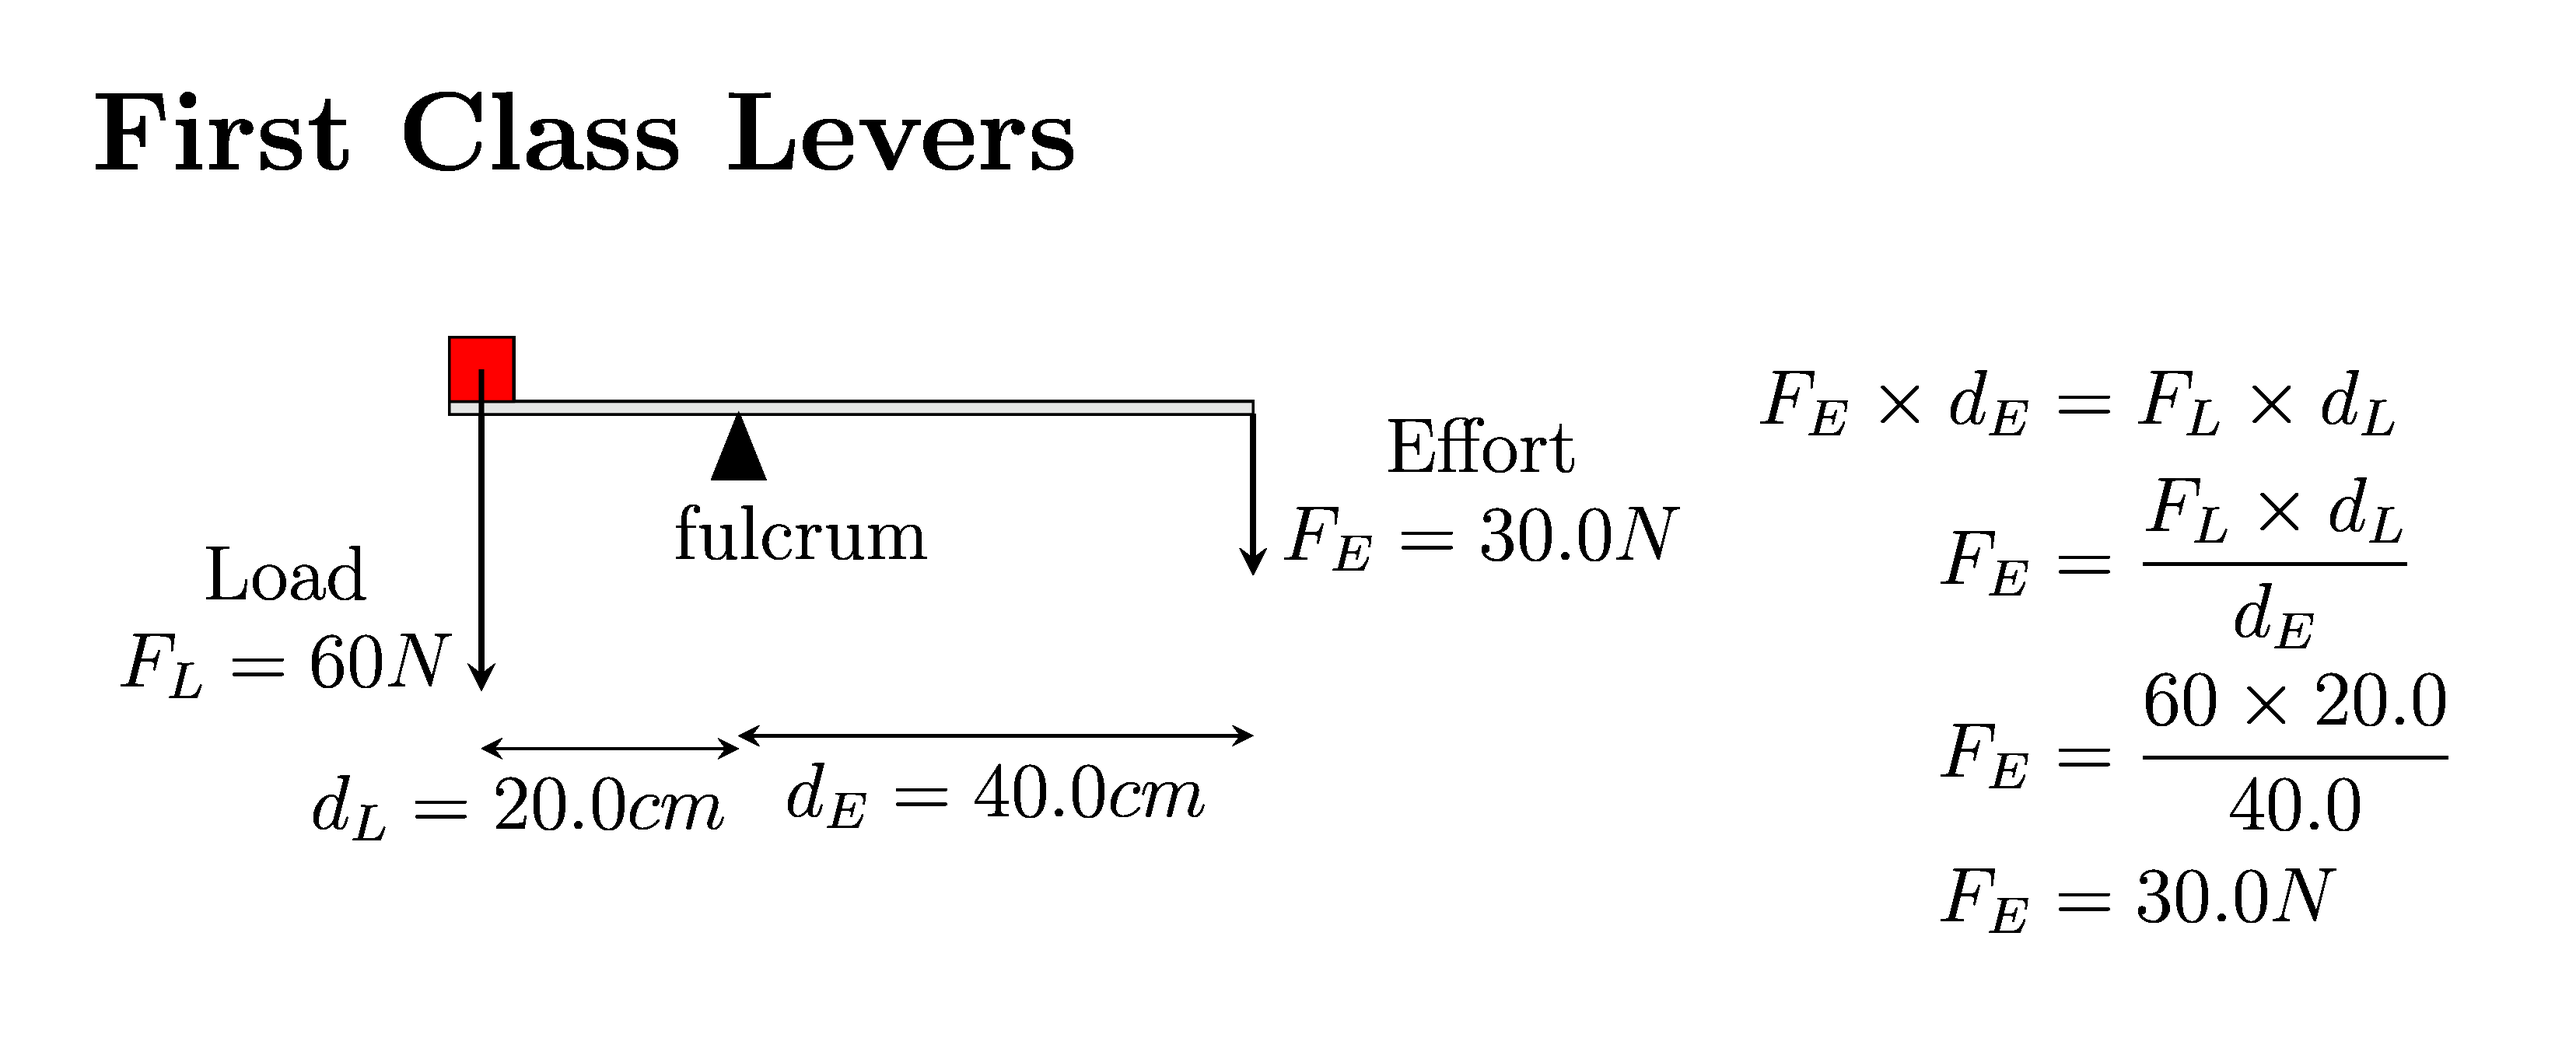
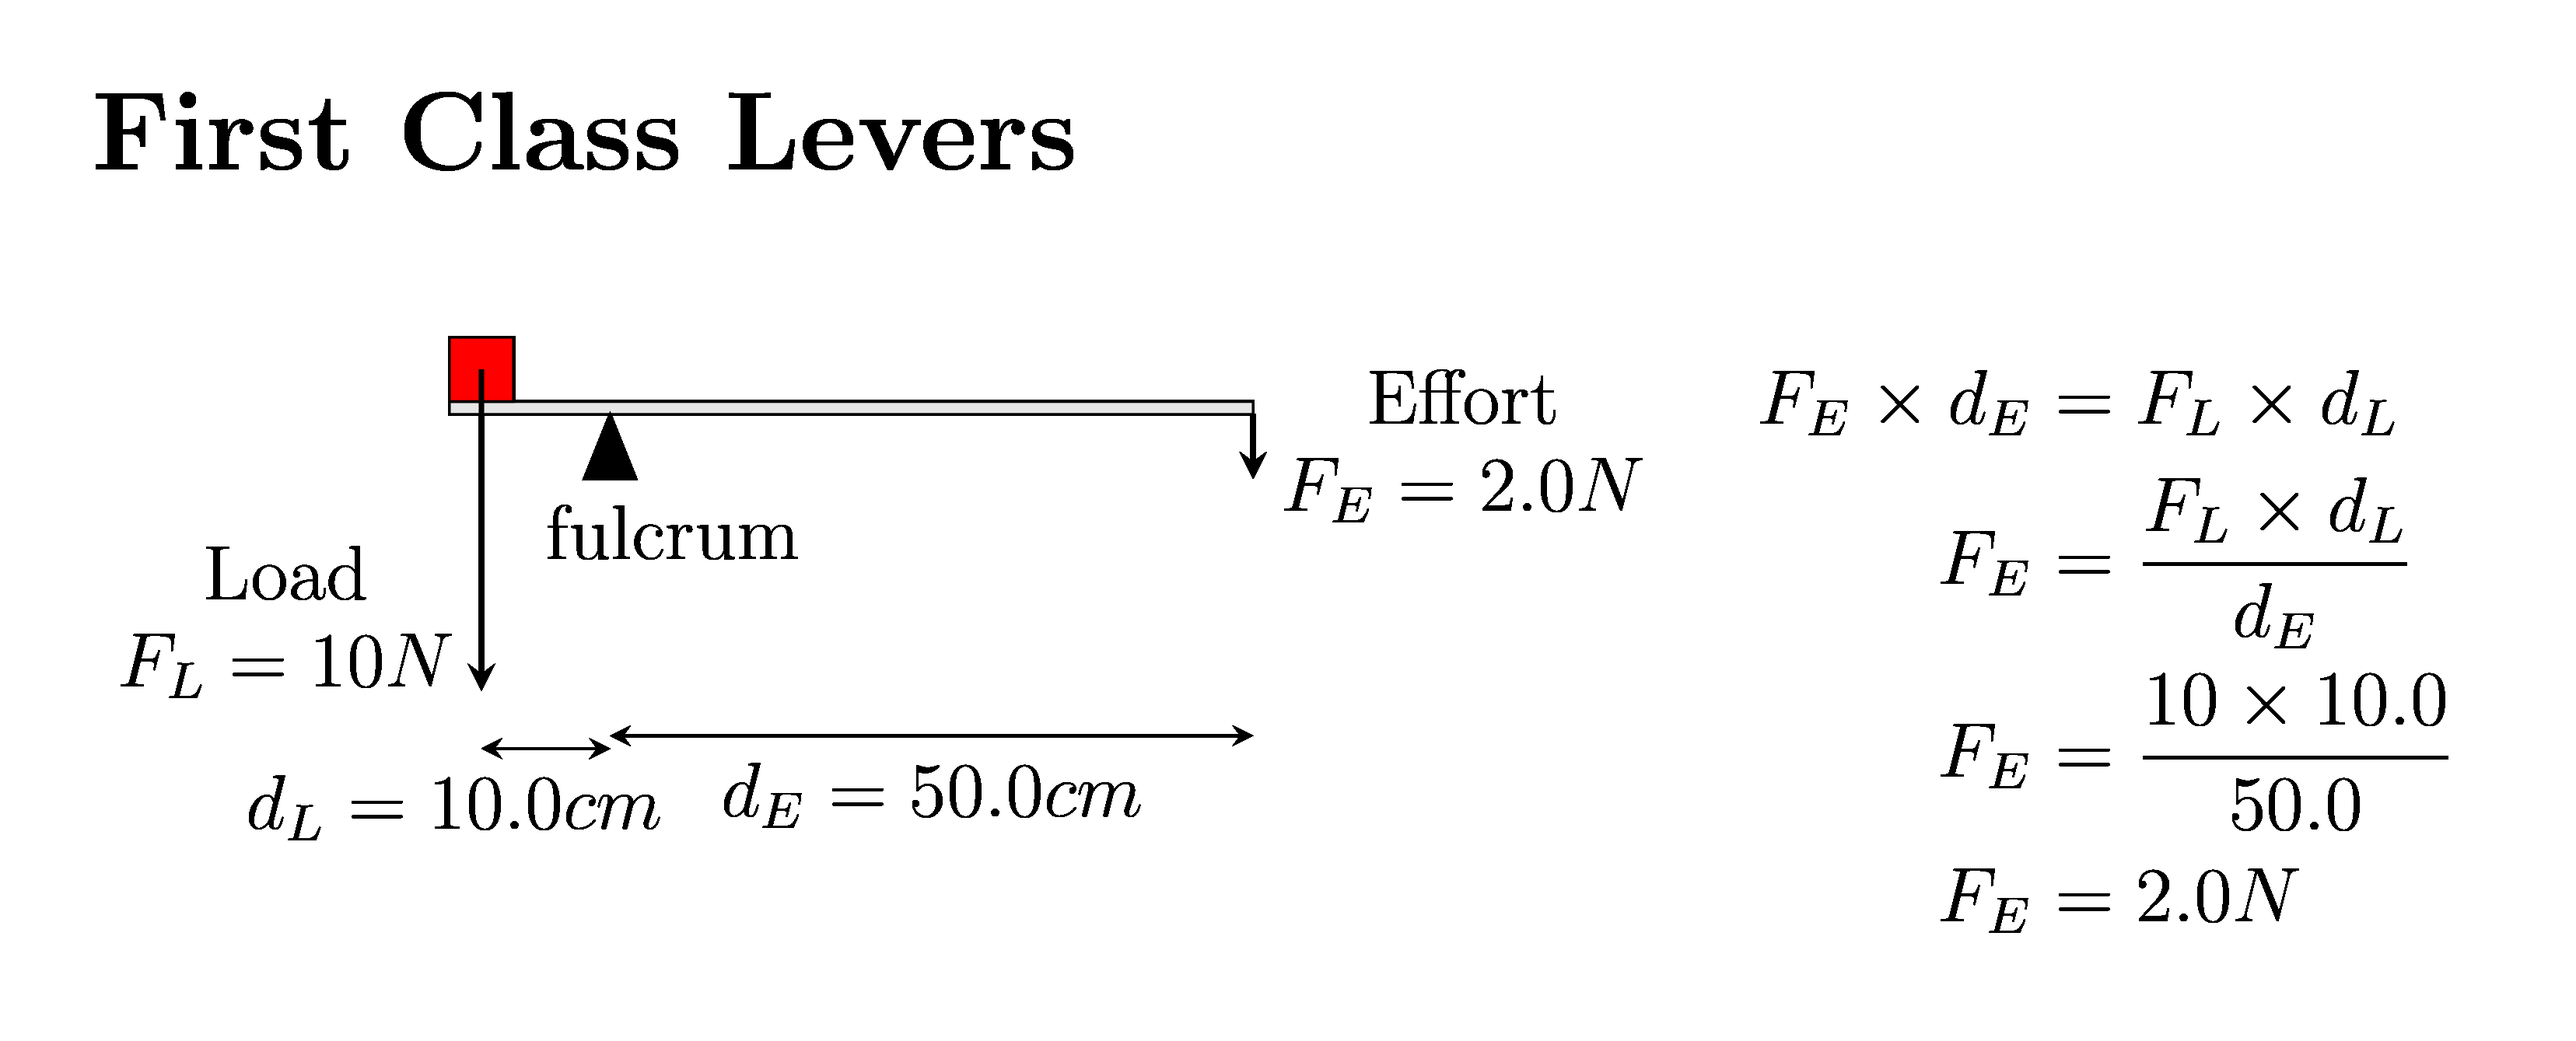
up

diff --git a/docs/latex_science/physics/levers_diagrams/lever_fcl1_ans.tex b/docs/latex_science/physics/levers_diagrams/lever_fcl1_ans.tex
@@ -10,25 +10,25 @@
         % rod
         \draw[fill=gray!20] (-0.25,0) rectangle (6,0.1);
         %fulcrum
-        \draw[fill=black] (1.8,-0.5) -- (2.2,-0.5) node[below,xshift=2mm] {fulcrum} -- (2.0,0) -- cycle;
+        \draw[fill=black] (0.8,-0.5) -- (1.2,-0.5) node[below,xshift=2mm] {fulcrum} -- (1.0,0) -- cycle;
         %load
         \draw[fill=red] (-0.25,0.1) rectangle (0.25,0.6);
-        \draw[->,thick] (0.0,0.35) -- (0.0,-2.15) node[midway,left,yshift=-0.5cm,align=center] {Load \\\\[-3ex] $F_L = 60N$};
+        \draw[->,thick] (0.0,0.35) -- (0.0,-2.15) node[midway,left,yshift=-0.5cm,align=center] {Load \\\\[-3ex] $F_L = 10N$};
         %effort
-        \draw[->,thick] (6,0.0) -- (6,-1.25) node[midway,right,align=center] {Effort \\\\[-3ex] $F_E = 30.0N$};
+        \draw[->,thick] (6,0.0) -- (6,-0.5) node[midway,right,align=center] {Effort \\\\[-3ex] $F_E = 2.0N$};
 
         % Distance markers
-        \draw[<->] (2.0,-2.5) -- (6,-2.5) node[midway,below,align=center] {$d_E = 40.0cm$};
-        \draw[<->] (0,-2.6) -- (2.0,-2.6) node[midway,below,xshift=-0.5cm,align=left] {$d_L = 20.0cm$};
+        \draw[<->] (1.0,-2.5) -- (6,-2.5) node[midway,below,align=center] {$d_E = 50.0cm$};
+        \draw[<->] (0,-2.6) -- (1.0,-2.6) node[midway,below,xshift=-0.5cm,align=left] {$d_L = 10.0cm$};
     \end{tikzpicture}
 \end{minipage}%
 \hfill
 \begin{minipage}{0.3\textwidth}
-    \begin{flalign*}
+    \begin{align*}
         F_E \times d_E &= F_L \times d_L \\
         F_E &= \frac{F_L \times d_L}{d_E} \\
-        F_E &= \frac{60 \times 20.0}{40.0} \\
-        F_E &= 30.0N
-    \end{flalign*}
+        F_E &= \frac{10 \times 10.0}{50.0} \\
+        F_E &= 2.0N
+    \end{align*}
 \end{minipage}
 \end{document}

diff --git a/docs/latex_science/physics/levers_diagrams/lever_fcl1_q.tex b/docs/latex_science/physics/levers_diagrams/lever_fcl1_q.tex
@@ -10,25 +10,25 @@
         % rod
         \draw[fill=gray!20] (-0.25,0) rectangle (6,0.1);
         %fulcrum
-        \draw[fill=black] (1.8,-0.5) -- (2.2,-0.5) node[below,xshift=2mm] {fulcrum} -- (2.0,0) -- cycle;
+        \draw[fill=black] (0.8,-0.5) -- (1.2,-0.5) node[below,xshift=2mm] {fulcrum} -- (1.0,0) -- cycle;
         %load
         \draw[fill=red] (-0.25,0.1) rectangle (0.25,0.6);
-        \draw[->,thick] (0.0,0.35) -- (0.0,-2.15) node[midway,left,yshift=-0.5cm,align=center] {Load \\\\[-3ex] $F_L = 60N$};
+        \draw[->,thick] (0.0,0.35) -- (0.0,-2.15) node[midway,left,yshift=-0.5cm,align=center] {Load \\\\[-3ex] $F_L = 10N$};
         %effort
-        \draw[->,thick] (6,0.0) -- (6,-1.25) node[midway,right,align=center] {Effort \\\\[-3ex] $F_E = ~~N$};
+        \draw[->,thick] (6,0.0) -- (6,-0.5) node[midway,right,align=center] {Effort \\\\[-3ex] $F_E = ~~N$};
 
         % Distance markers
-        \draw[<->] (2.0,-2.5) -- (6,-2.5) node[midway,below,align=center] {$d_E = 40.0cm$};
-        \draw[<->] (0,-2.6) -- (2.0,-2.6) node[midway,below,xshift=-0.5cm,align=left] {$d_L = 20.0cm$};
+        \draw[<->] (1.0,-2.5) -- (6,-2.5) node[midway,below,align=center] {$d_E = 50.0cm$};
+        \draw[<->] (0,-2.6) -- (1.0,-2.6) node[midway,below,xshift=-0.5cm,align=left] {$d_L = 10.0cm$};
     \end{tikzpicture}
 \end{minipage}%
 \hfill
 \begin{minipage}{0.3\textwidth}
-    \begin{flalign*}
+    \begin{align*}
         F_E \times d_E &= F_L \times d_L \\
         F_E &= \frac{F_L \times d_L}{d_E} \\
         F_E &= \frac{~~ \times ~~}{~~} \\
         F_E &= ~~N
-    \end{flalign*}
+    \end{align*}
 \end{minipage}
 \end{document}

diff --git a/docs/latex_science/physics/levers_makers/lever_diagram_template.tex b/docs/latex_science/physics/levers_makers/lever_diagram_template.tex
@@ -18,10 +18,10 @@
 \end{minipage}%
 \hfill
 \begin{minipage}{0.3\textwidth}
-    \begin{flalign*}
+    \begin{align*}
         F_E \times d_E &= F_L \times d_L \\
         F_E &= \frac{F_L \times d_L}{d_E} \\
         F_E &= \frac{<<ans_force_l>> \times <<ans_dist_l>>}{<<ans_dist_e>>} \\
         F_E &= <<ans_force_e>>N
-    \end{flalign*}
+    \end{align*}
 \end{minipage}
